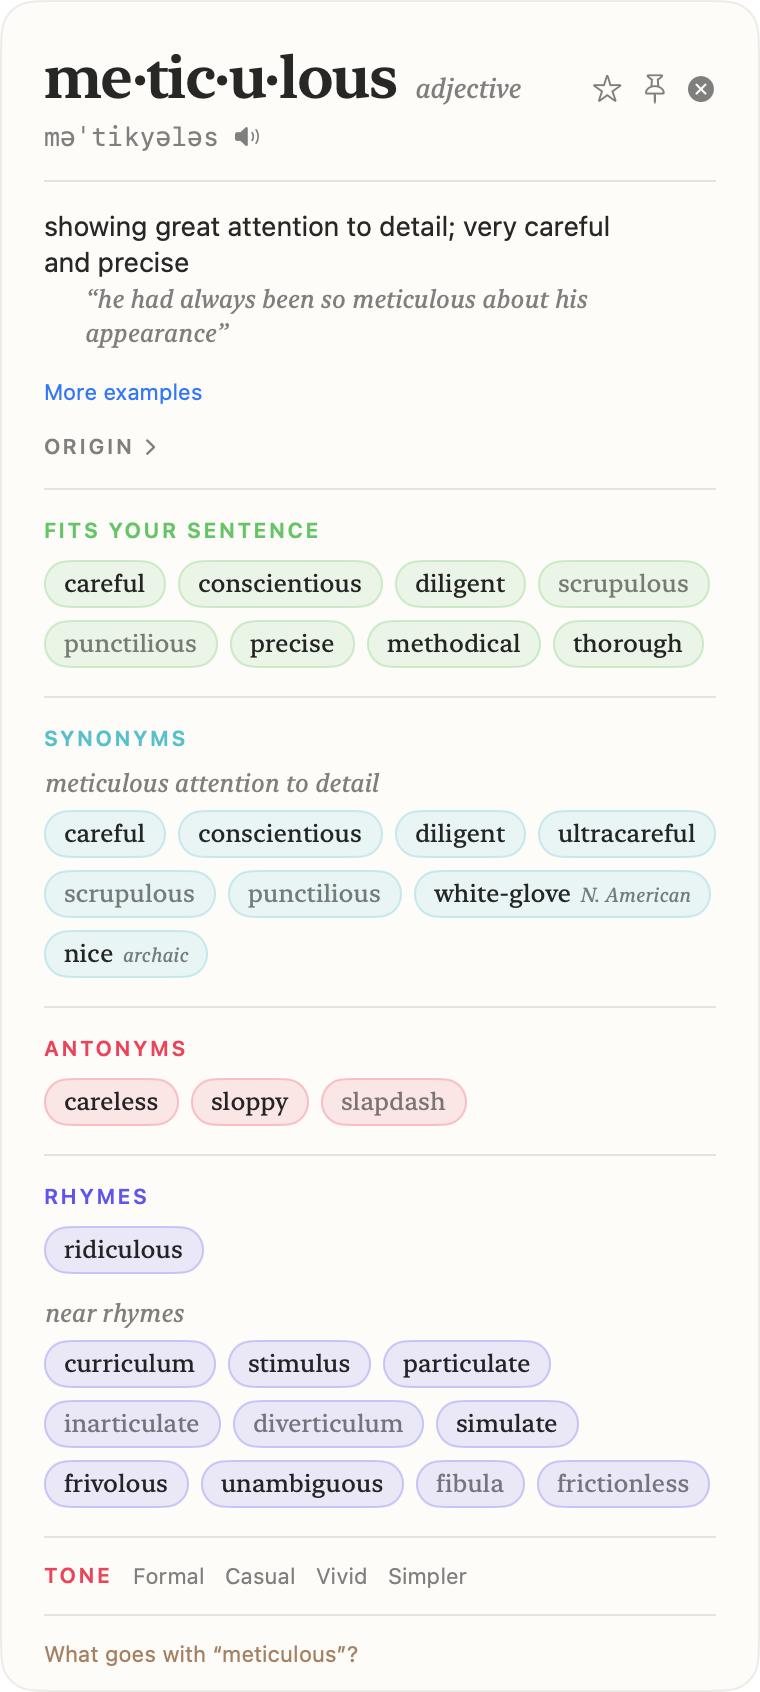
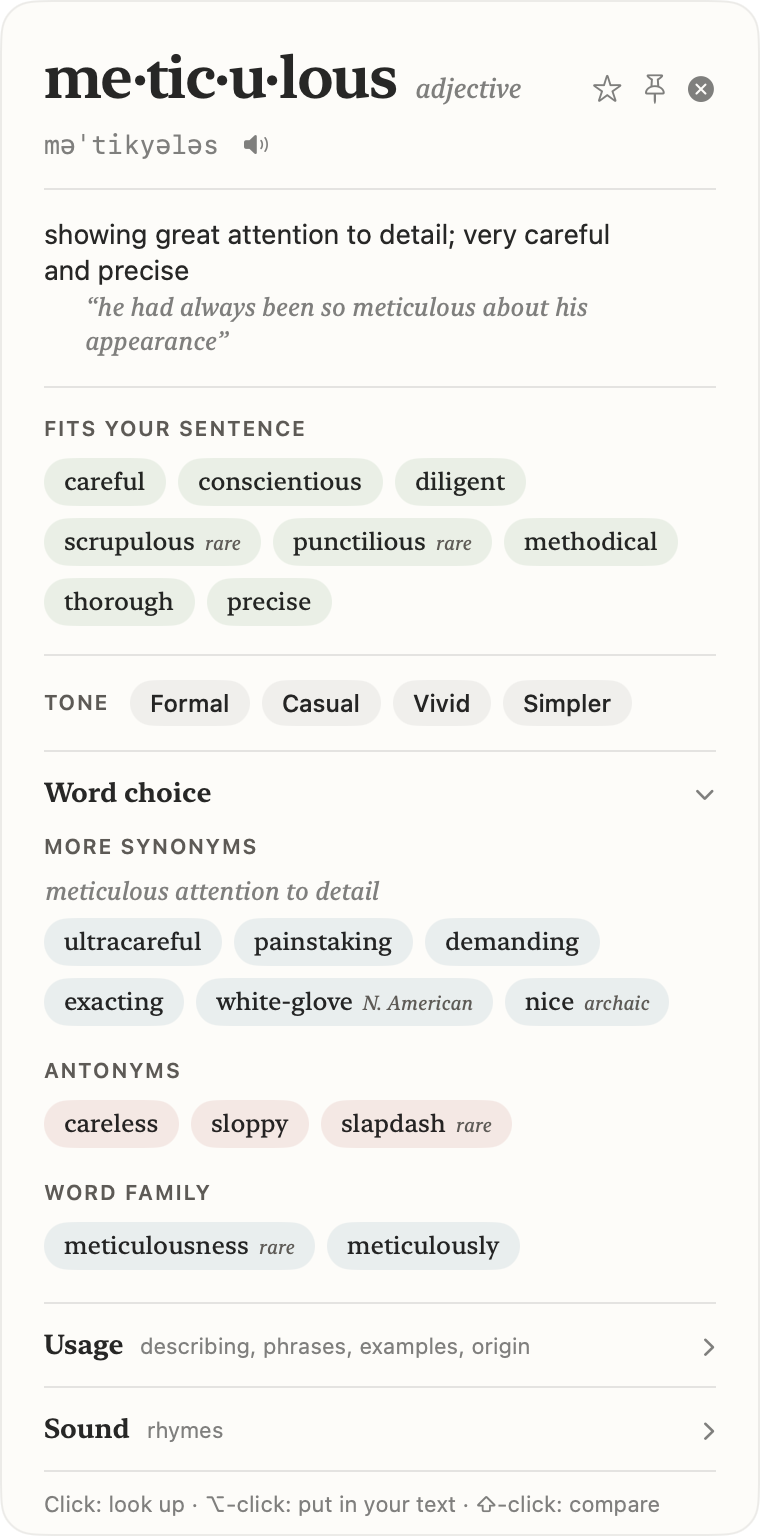
Retake the README screenshots for the new design

diff --git a/README.md b/README.md
@@ -5,11 +5,11 @@ A writer's dictionary for the Mac. Select a word anywhere, press a hotkey, and g
 WordPop lives in the menu bar and stays out of the Dock.
 
 <p align="center">
-  <img src="docs/popup.png" width="300" alt="WordPop popup for meticulous, selected in a sentence: the definition, synonyms that fit the sentence, tagged synonyms, antonyms, rhymes and tone buttons" valign="top">
+  <img src="docs/popup.png" width="300" alt="WordPop popup for meticulous, selected in a sentence: the definition, the synonyms that fit the sentence, tone buttons, the open Word choice group with more synonyms, antonyms and word family, and the closed Usage and Sound groups" valign="top">
   &nbsp;
   <img src="docs/quick-search.png" width="300" alt="Quick Search with the pattern con* : agree, listing consent, conform, concede, concord, consort and concur with their meanings" valign="top">
   &nbsp;
-  <img src="docs/passage.png" width="300" alt="Notes on a selected passage: counts and reading grade, a Tools row, a grammar fix (should of to have), e-mail spelled two ways, wordy phrases with fixes, and sentence rhythm bars" valign="top">
+  <img src="docs/passage.png" width="300" alt="Notes on a selected passage: counts and reading grade, the Tools row, Mistakes with one Fix button (a typo, email spelled two ways, wordy phrases and a hidden verb), Clarity with a hard sentence, passive voice and rhythm bars, and the closed Style group" valign="top">
 </p>
 
 ## Features
